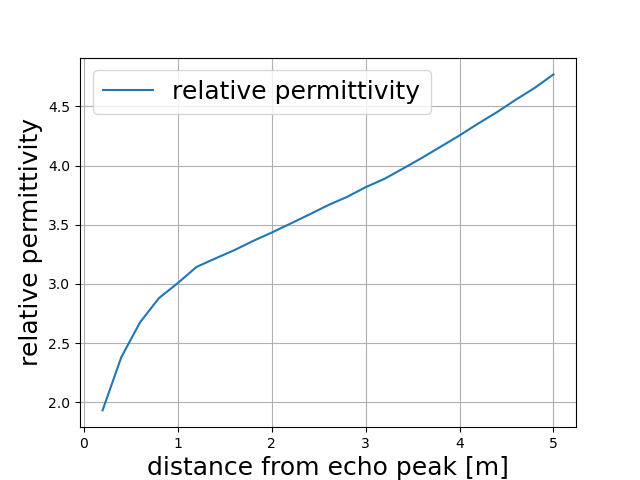
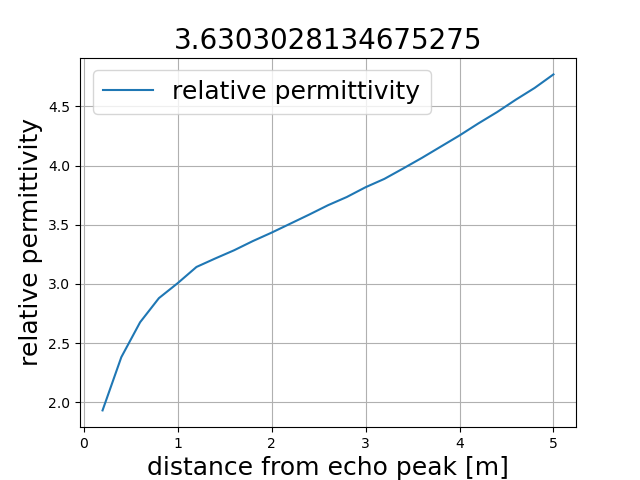
remake

Changed region(s): [[0.2812, 0.0625, 0.75, 0.125]]

diff --git a/kanda/domain_20x10/4region_smooth/B-scan/identify_permittivity.py b/kanda/domain_20x10/4region_smooth/B-scan/identify_permittivity.py
@@ -1,6 +1,7 @@
 import h5py
 import matplotlib.pyplot as plt
 import numpy as np
+from numpy import size
 
 from tools.outputfiles_merge import get_output_data
 
@@ -55,6 +56,7 @@ print(mean)
 plt.plot(index, epsilon_r2, label='relative permittivity')
 plt.xlabel('distance from echo peak [m]', size=18)
 plt.ylabel('relative permittivity', size=18)
+plt.title(str(mean), size=20)
 #plt.yscale('log')
 plt.legend(fontsize = 18)
 
